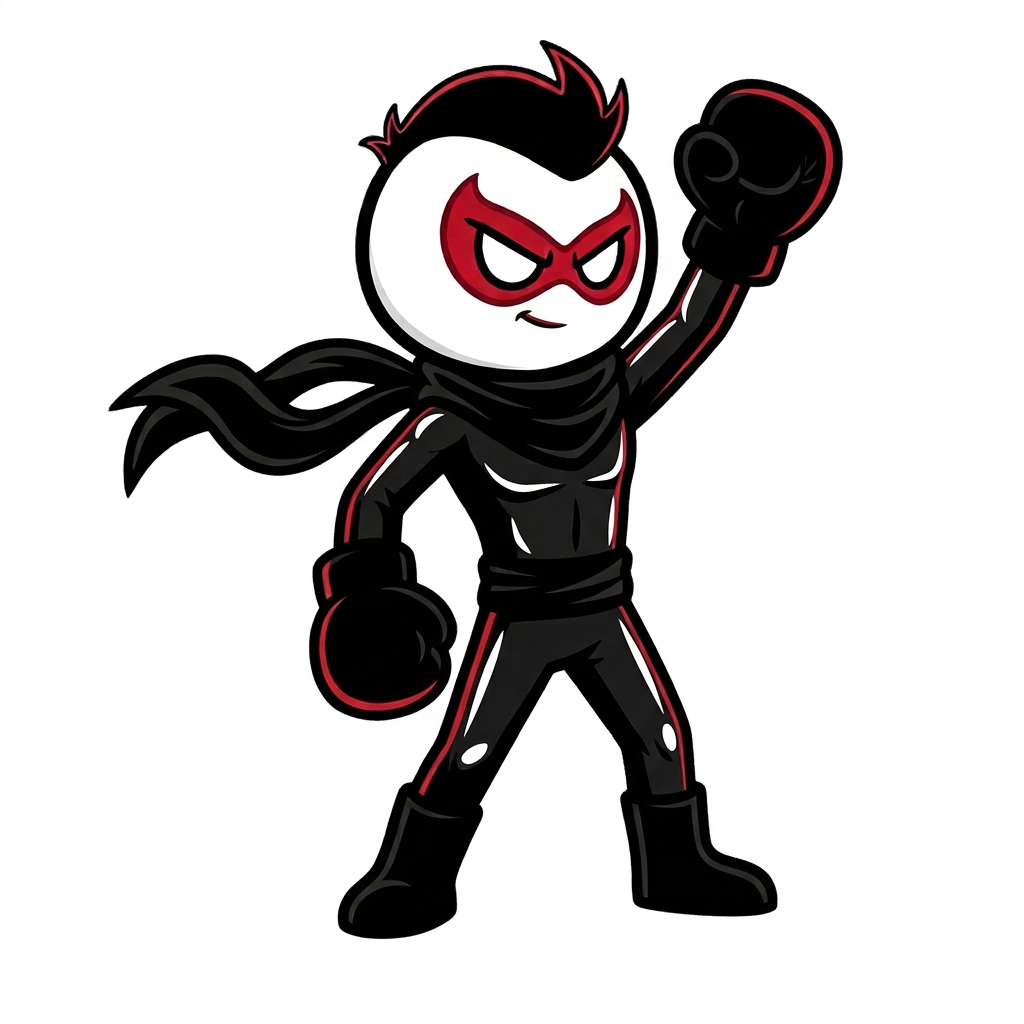
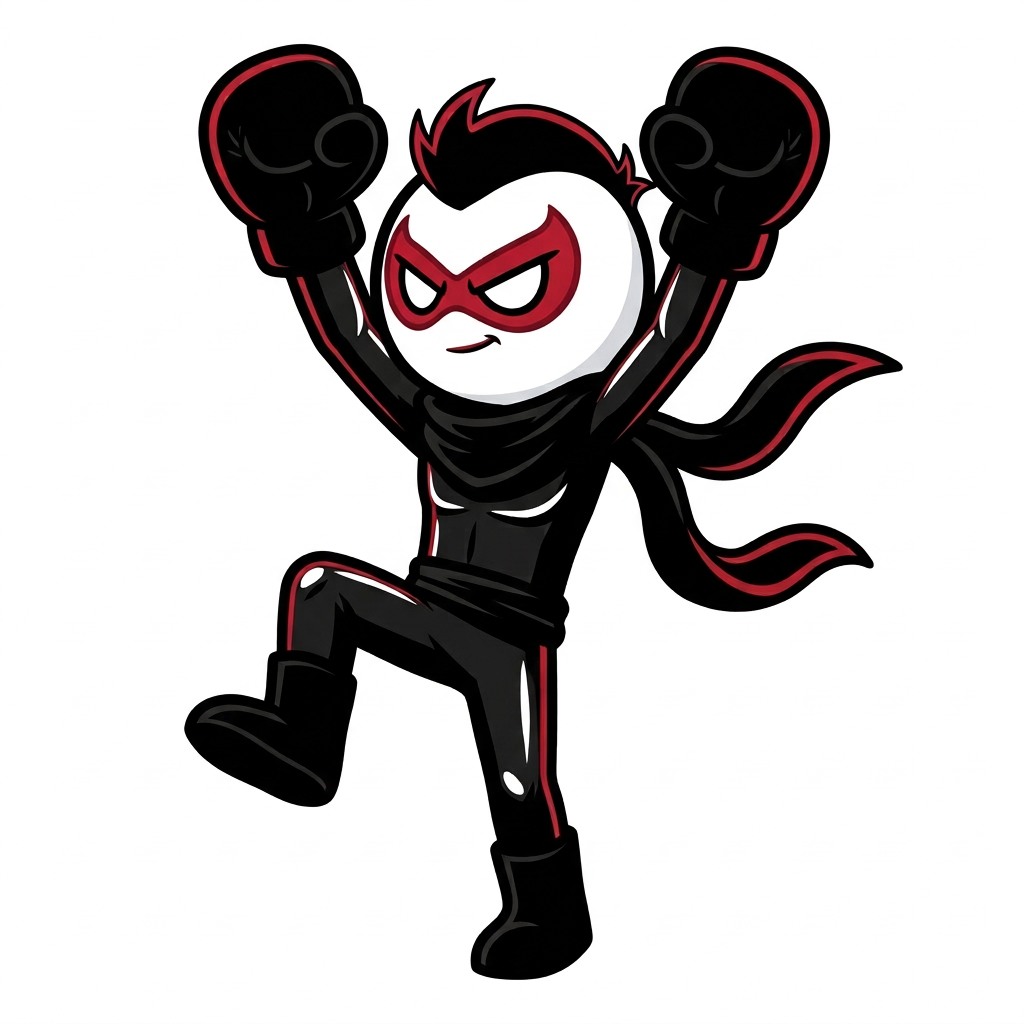
feat(anim): smoothness pass on victory (5 to 7 frames, 600 ms evenCycle loop); defeat on a 600 ms evenCycle

diff --git a/lib/game/ink_fight_battle_game.dart b/lib/game/ink_fight_battle_game.dart
@@ -446,19 +446,6 @@ class InkFightBattleGame extends FlameGame {
       return sprites;
     }
 
-    /// A cycle whose frames all hold the same time.
-    Future<SpriteAnimation> cycle(
-      String action, {
-      required double stepTime,
-      bool loop = false,
-    }) async {
-      return SpriteAnimation.spriteList(
-        await loadCycle(action),
-        stepTime: stepTime,
-        loop: loop,
-      );
-    }
-
     /// A cycle that spreads [totalMs] evenly over however many frames the art
     /// delivers: an in-between frame makes the motion smoother, never slower.
     Future<SpriteAnimation> evenCycle(
@@ -534,8 +521,10 @@ class InkFightBattleGame extends FlameGame {
       hurt: await recipe('hurt', _kHurtStepsMs),
       hurtHeavy: await recipe('hurt_heavy', _kHurtHeavyStepsMs),
       knockdown: await recipe('knockdown', _kKnockdownStepsMs),
-      victory: await cycle('victory', stepTime: .12, loop: true),
-      defeat: await cycle('defeat', stepTime: .12),
+      // The result poses keep the 600 ms they had as 5 × 120 ms: one
+      // celebration loop, one fall to the final pose (GAME_FEEL §1).
+      victory: await evenCycle('victory', totalMs: 600, loop: true),
+      defeat: await evenCycle('defeat', totalMs: 600),
       walkBaseStepTime: walk.frames.first.stepTime,
     );
   }

diff --git a/test/game_feel_test.dart b/test/game_feel_test.dart
@@ -495,15 +495,18 @@ void main() {
         expect(loser.animation!.frames, hasLength(5));
         expect(loser.animation!.frames.first.stepTime, .09);
         expect(loser.animation!.loop, isFalse);
-        // ...and the winner loops its victory.
+        // ...and the winner loops its victory: five keyframes plus two
+        // in-betweens (prompt pack §5), still one 600 ms celebration.
         final winner = rivalOf(game);
+        expect(winner.animation!.frames, hasLength(7));
         expect(winner.animation!.loop, isTrue);
+        expect(totalMsOf(winner), closeTo(600, 1e-6));
 
         // Once 600 ms of animation time has run, the defeat cycle takes over
-        // and holds the loser on the ground.
+        // and holds the loser on the ground — 600 ms however many frames land.
         tick(game, 45);
         expect(loser.animation!.frames, hasLength(5));
-        expect(loser.animation!.frames.first.stepTime, .12);
+        expect(totalMsOf(loser), closeTo(600, 1e-6));
         expect(loser.animation!.loop, isFalse);
       },
     );

diff --git a/docs/product/AI_CHARACTER_PROMPT_PACK.md b/docs/product/AI_CHARACTER_PROMPT_PACK.md
@@ -127,13 +127,28 @@ flickered 44 px backwards for one frame.
 - `knockdown_003`: one knee and one hand preparing to rise.
 - `knockdown_004`: standing recovery pose, matching the ready stance.
 
-### Victory — 5 frames
+### Victory — 7 frames (5 keyframes + 2 in-betweens)
 
-- `victory_000`: upright celebration start, fists raised, happy determined face.
-- `victory_001`: full celebratory pose with scarf or ink ribbon moving upward.
-- `victory_002`: strongest victory silhouette, one foot lifted or a confident lean.
-- `victory_003`: settling pose with a small ink flourish.
-- `victory_004`: clean result pose, feet stable and face clearly visible.
+The in-betweens fill each fighter's two largest steps, so the numbering differs
+between the two:
+
+| Keyframe | player | rival |
+|---|---|---|
+| upright celebration start, fists raised, happy determined face | `000` | `000` |
+| full celebratory pose with scarf or ink ribbon moving upward | `001` | `002` |
+| strongest victory silhouette, one foot lifted or a confident lean | `002` | `003` |
+| settling pose with a small ink flourish | `003` | `005` |
+| clean result pose, feet stable and face clearly visible | `005` | `006` |
+
+- Player `victory_004` (in-between 003 → 005): the raised glove coming down
+  beside his head at ear height, the other glove dropped to his belt, the stance
+  narrowing.
+- Player `victory_006` (in-between on the loop seam, 005 → 000): both gloves
+  rising to his chest out of the result pose, on the way back into the guard.
+- Rival `victory_001` (in-between 000 → 002): both gloves rising past the chest
+  from the hips on the way up into the V.
+- Rival `victory_004` (in-between 003 → 005): the lifted foot touching back down
+  while one glove lowers to head height and the other stays raised.
 
 ### Defeat — 5 frames
 
@@ -248,6 +263,7 @@ step / mean silhouette change, before → after):
 | heavy kick | 177 px / 0.44 → 216 px / 0.45 ² | 155 px / 0.36 → 155 px / 0.32 ³ |
 | hurt heavy | 219 px / 0.59 → 181 px / 0.55 | 178 px / 0.50 → 96 px / 0.43 ⁵ |
 | jump ⁶ | 102 px / 0.51 → 102 px / 0.44 | 40 px / 0.40 → 34 px / 0.38 |
+| victory ⁷ | 125 px / 0.46 → 79 px / 0.39 | 138 px / 0.46 → 104 px / 0.46 |
 | block raise ⁴ | 33 px / 0.23 → 23 px / 0.18 | 0 px / 0.08 → 0 px / 0.05 |
 | block release ⁴ | 18 px / 0.26 → 27 px / 0.21 | 42 px / 0.27 → 29 px / 0.22 |
 
@@ -278,6 +294,14 @@ stands much closer to the airborne tuck (0.27) than to the crouch (0.60), with
 its head on the tuck's (499 against 498 px). The rival's push-off head sits
 18 px past its neighbours', 3 px over the tolerance, and is accepted with that
 note; its largest head step still shrinks, from 40 to 34 px.
+
+⁷ Victory loops in place like idle, so the head is the anchor; the loop seam
+counts as a step. The largest silhouette step drops for both fighters (player
+0.55 → 0.45, rival 0.61 → 0.55). The rival's mean holds at 0.46 because each
+in-between splits one big step into two medium ones. His 004 sets the lifted
+foot down about 160 px left of where 005 plants it: its raised arms widen the
+bounding box, and centring slides the body. The standing foot's path still
+improves (500 → 566 → 732 px, largest step 232 → 166 px).
 
 Rejected, with the measurement: the player's idle 002 → 003 in-between, four
 attempts. Twice the scarf came out longer than in frame 003 (the largest head
@@ -321,6 +345,28 @@ took retries.
 
 Both landed once the prompt spelled out the geometry. For the rival it also took
 a gentler pose, close to the crouch, with the three-quarter facing written out.
+
+Victory: both rival in-betweens passed first time; the player's two took a
+retry each.
+- His 003 → 005 frame first swapped the arms: the raised glove dropped to the
+  hip while the other rose to the chin. That is a gesture neither neighbour has,
+  and the frame sat 0.46 and 0.49 from neighbours only 0.45 apart.
+- His seam frame first came back as 000's guard on the result pose's legs, still
+  0.54 from 005 against the 0.55 it was meant to split.
+- Both landed once the prompt kept each glove on its own side of the picture
+  and gave its height ("at ear height, still on the left side of his head";
+  "at stomach height, well below the chest").
+
+Defeat, one round in, is not delivered yet. The rival's 003 → 004 in-between
+passed and waits for its partners. The rest failed:
+- The player's stagger → stand frame added a glove raised to the chin and drew
+  one shoe grey.
+- His kneel → slump frame barely left the kneel (0.17, against 0.38 to the next
+  frame) and turned the face sad.
+- The rival's kneel → rise frame drew a ground line, flipped the scarf to the
+  other side and raised a guard glove.
+
+Pin the gloves, the shoes' fill and the expression explicitly for these.
 
 **Haze.** A generation can leave a faint grey ground smudge under a lifted foot
 (the rival's `walk_002` did). `tool/process_character_assets.py` now clears any

diff --git a/docs/technical/GAME_FEEL.md b/docs/technical/GAME_FEEL.md
@@ -68,8 +68,10 @@ recovered 005 at 300) ·
 325, fall 005 at 400, landing 006 at 560. The in-betweens split the takeoff and
 the apex, and the phase starts 0 / 100 / 250 / 400 / 560 are kept) · **walk** (see §6; 8 frames since the in-betweens) · **idle** (one
 560 ms breath — the old 4 × 140 ms — spread evenly over however many frames are
-delivered: the rival's 6 hold ≈93 ms each, the player's 5 hold 112 ms until his
-last in-between lands).
+delivered: 6 for both fighters, ≈93 ms each) · **victory** (one 600 ms loop —
+the old 5 × 120 ms — spread evenly the same way: 7 frames, ≈86 ms each) ·
+**defeat** (one 600 ms fall to the final pose, also spread evenly: 5 frames at
+120 ms until its in-betweens land).
 
 Rule of thumb for any future move: the contact frame sits inside the active
 window, and `sum(frame holds) == totalMs` from the rules table.
